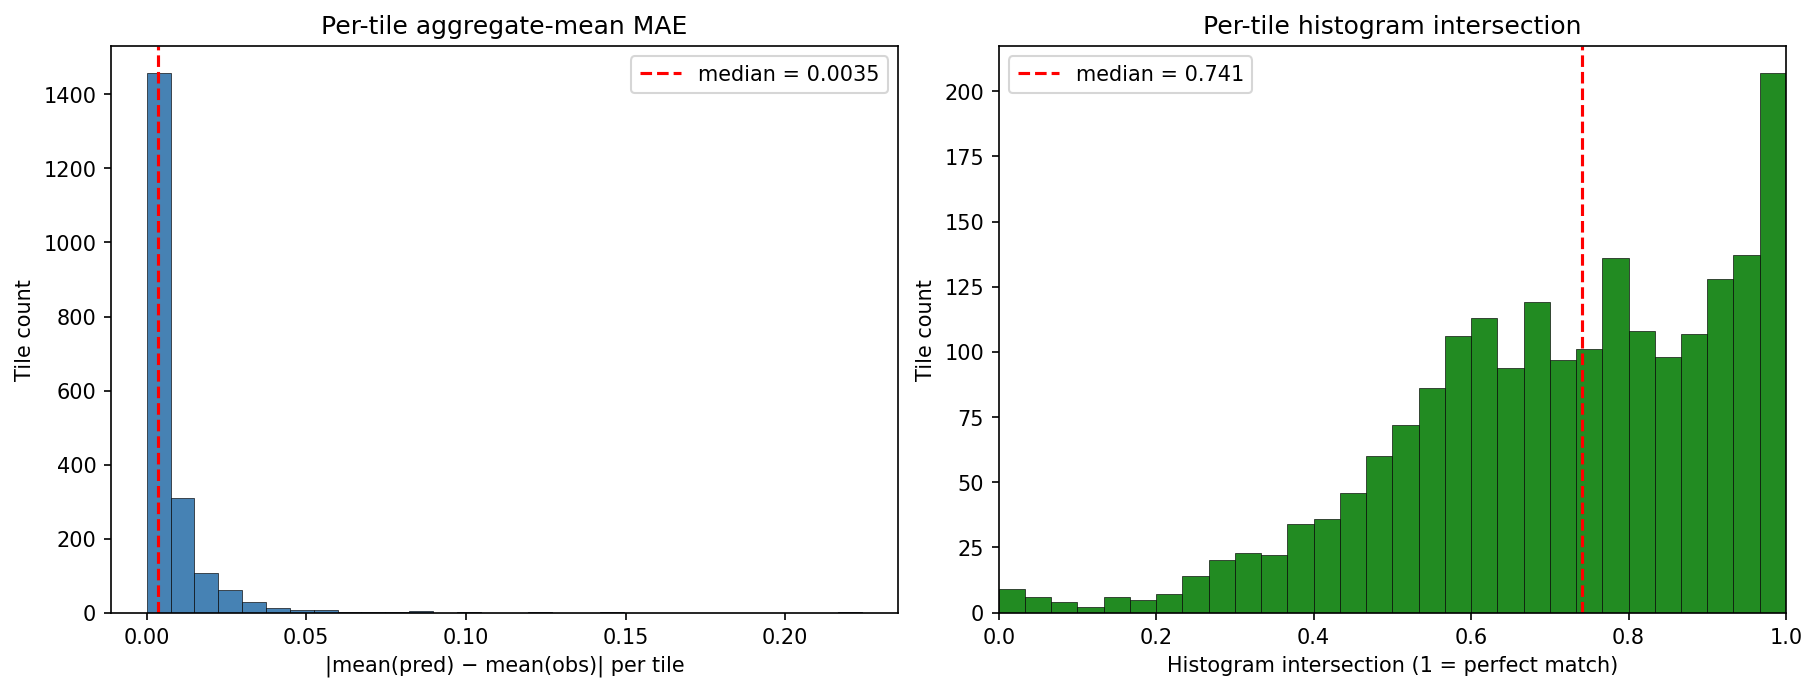
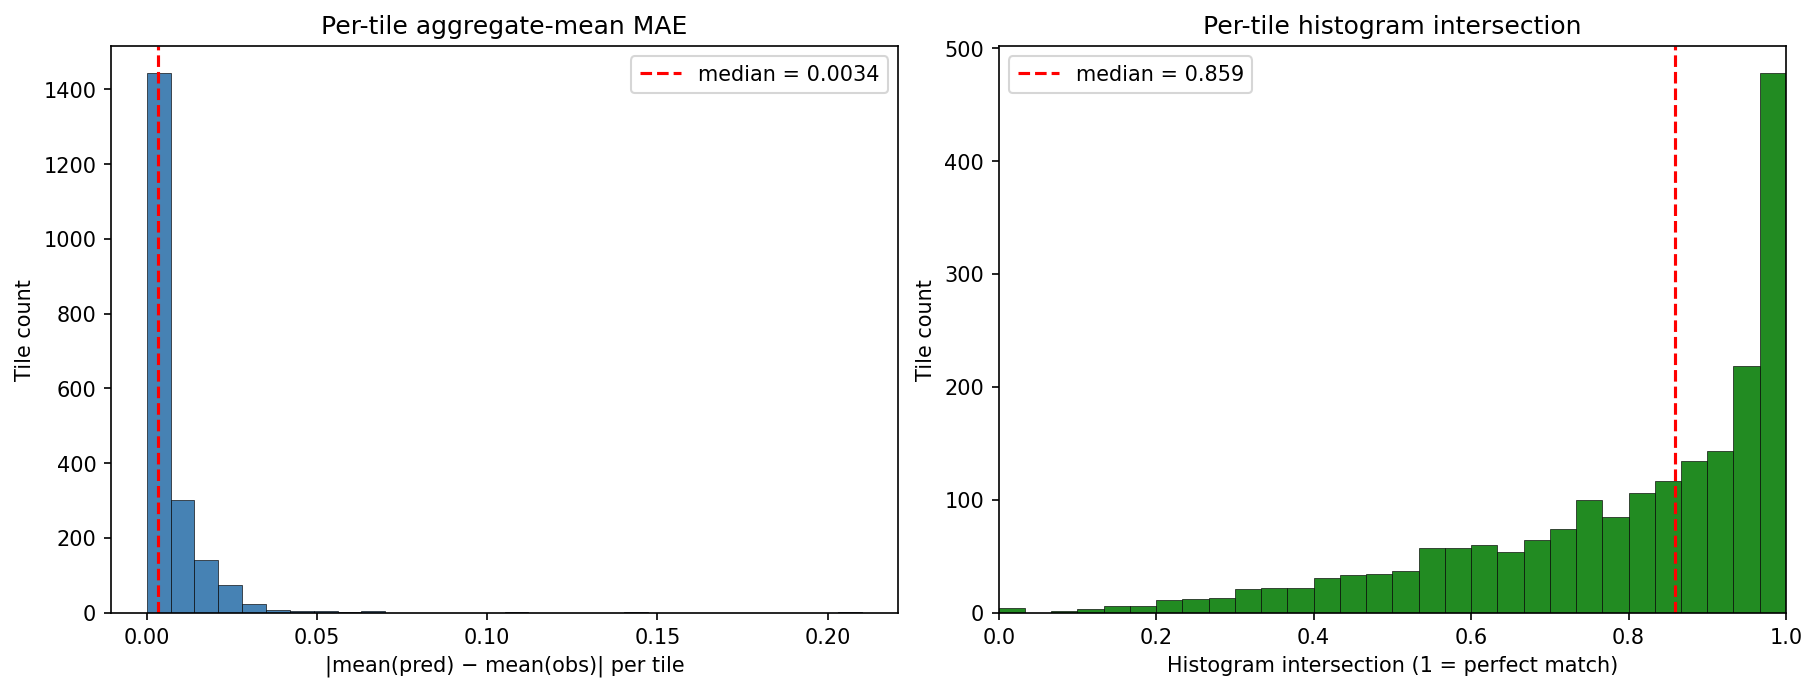
feat: min-SNR-γ weighting on v-loss (v8)
Hang et al. 2023 — for v-prediction, weight per-timestep loss by
min(γ, SNR(t)) / (1 + SNR(t)) (γ ≈ 5). Effectively shifts gradient
budget toward low-noise / high-SNR steps where rare large-magnitude
features actually live, without changing the noise schedule itself.

- DiffusionLightningModule._snr_weights computes per-batch-element
  weights from the train scheduler's alphas_cumprod.
- _v_loss now combines pixel reweighting (|Δhm|^α) with optional
  min-SNR per-timestep weighting.
- Train script exposes --min_snr_gamma (0 = off, 5 standard).

v8 = v6 (EMA + weighted sampling + pixel weight + pattern loss) +
min-SNR-5. Strictly improves on v6:

                       v6           v8
  MAE median        0.0041   →   0.0034
  hist xinter med   0.801    →   0.859
  Pearson r         0.566    →   0.561
  overall coverage  0.937    →   0.942

  per-bin v6 → v8:
    [-1.000, -0.005]   0.708 → 0.706
    [-0.005, +0.005]   0.987 → 0.993
    [+0.005, +0.020]   0.974 → 0.979
    [+0.020, +0.100]   0.720 → 0.726
    [+0.100, +0.200]   0.000 → 0.000

Min-SNR recovered ~17 % of MAE precision and most of the histogram
intersection gap that v6's pattern loss had introduced, while keeping
v6's coverage gains. Upper bins (Δhm > 0.1) still at 0 — confirms the
remaining failure is a training-distribution / capacity problem, not
a loss-shape problem.

W&B run pnbnwhjp.

diff --git a/src/models/diffusion_lightning.py b/src/models/diffusion_lightning.py
@@ -69,6 +69,7 @@ class DiffusionLightningModule(pl.LightningModule):
         dhm_mean: float = 0.0,
         dhm_std: float = 1.0,
         cfg_dropout_prob: float = 0.0,
+        min_snr_gamma: float = 0.0,
     ):
         super().__init__()
         self.save_hyperparameters()
@@ -89,6 +90,7 @@ class DiffusionLightningModule(pl.LightningModule):
         self.dhm_mean = float(dhm_mean)
         self.dhm_std = float(dhm_std)
         self.cfg_dropout_prob = float(cfg_dropout_prob)
+        self.min_snr_gamma = float(min_snr_gamma)
 
         loc = _maybe_build_location_encoder(location_encoder_kwargs)
         if loc is None:
@@ -159,26 +161,46 @@ class DiffusionLightningModule(pl.LightningModule):
             batch["hm_t_normalized"],
         )
 
-    def _v_loss(self, v_pred, v_target, valid, target_dhm):
-        """Per-pixel-reweighted v-prediction MSE.
+    def _snr_weights(self, t):
+        """Min-SNR-γ per-timestep weight for v-prediction.
 
-        With pixel_weight_alpha > 0, each pixel's MSE contribution is scaled
-        by (|target_dhm|^alpha + eps), normalised so the average weight over
-        valid pixels is 1. This concentrates gradient on the rare large-Δhm
-        pixels that the uniform MSE drowns out.
+        Hang et al. 2023 — for v-prediction the loss should be weighted by
+        min(γ, SNR(t)) / (1 + SNR(t)) so high-SNR (low-noise) steps get
+        relatively more gradient. Without this the v-loss is roughly uniform
+        across t, which under-weights the low-noise regime where rare
+        high-magnitude features actually live.
+        """
+        if self.min_snr_gamma <= 0:
+            return None
+        alphas_cumprod = self.train_scheduler.alphas_cumprod.to(t.device)[t]
+        snr = alphas_cumprod / (1.0 - alphas_cumprod).clamp(min=1e-8)
+        w = torch.minimum(snr, torch.full_like(snr, self.min_snr_gamma)) / (1.0 + snr)
+        return w.view(-1, 1, 1, 1)
+
+    def _v_loss(self, v_pred, v_target, valid, target_dhm, t):
+        """Per-pixel + per-timestep weighted v-prediction MSE.
+
+        - pixel_weight_alpha > 0 scales each pixel's MSE by (|target_dhm|^α + ε),
+          normalised so the average pixel weight on valid pixels is 1.
+        - min_snr_gamma > 0 applies Hang-2023 min-SNR-γ per-timestep weighting
+          (γ ≈ 5 is standard for v-prediction).
         """
         valid_f = valid.float()
         sq = (v_pred - v_target).pow(2)
-        if self.pixel_weight_alpha <= 0:
-            denom = valid_f.sum().clamp(min=1.0)
-            return (sq * valid_f).sum() / denom
-        w = target_dhm.abs().pow(self.pixel_weight_alpha) + self.pixel_weight_eps
-        # Normalise per-batch so the *mean* weight on valid pixels is 1.
-        w_sum = (w * valid_f).sum()
-        v_sum = valid_f.sum().clamp(min=1.0)
-        w_norm = w * (v_sum / w_sum.clamp(min=1e-8))
+        # Pixel weight (1 if disabled).
+        if self.pixel_weight_alpha > 0:
+            w_pix = target_dhm.abs().pow(self.pixel_weight_alpha) + self.pixel_weight_eps
+            w_sum = (w_pix * valid_f).sum()
+            v_sum = valid_f.sum().clamp(min=1.0)
+            w_pix = w_pix * (v_sum / w_sum.clamp(min=1e-8))
+        else:
+            w_pix = torch.ones_like(sq)
+        # SNR weight (1 if disabled). Per-batch-element [B, 1, 1, 1].
+        snr_w = self._snr_weights(t)
+        if snr_w is not None:
+            sq = sq * snr_w
         denom = valid_f.sum().clamp(min=1.0)
-        return (sq * w_norm * valid_f).sum() / denom
+        return (sq * w_pix * valid_f).sum() / denom
 
     def _x0_pred_from_v(self, noisy, v_pred, t):
         """Recover predicted clean x_0 from v_pred under v-prediction parametrisation."""
@@ -239,7 +261,7 @@ class DiffusionLightningModule(pl.LightningModule):
         v_target = self.train_scheduler.get_velocity(x_0, noise, t)
         v_pred = self.unet(noisy, cond, t)
 
-        v_loss = self._v_loss(v_pred, v_target, valid, x_0)
+        v_loss = self._v_loss(v_pred, v_target, valid, x_0, t)
 
         if self.pattern_loss_weight > 0:
             x0_pred = self._x0_pred_from_v(noisy, v_pred, t)

diff --git a/scripts/train_diffusion.py b/scripts/train_diffusion.py
@@ -92,6 +92,9 @@ def parse_args():
     p.add_argument("--cfg_dropout_prob", type=float, default=0.0,
                    help="Probability of dropping conditioning during training (CFG). "
                         "0 = off; 0.1 standard. Enables classifier-free guidance at sampling.")
+    p.add_argument("--min_snr_gamma", type=float, default=0.0,
+                   help="Hang-2023 min-SNR-γ weighting on v-loss (0=off, 5 standard "
+                        "for v-prediction). Upweights low-noise / high-SNR steps.")
 
     # Location encoder
     p.add_argument("--use_location_encoder", action="store_true", default=True)
@@ -200,6 +203,7 @@ def main():
         dhm_mean=float(train_ds.dhm_mean),
         dhm_std=float(train_ds.dhm_std),
         cfg_dropout_prob=args.cfg_dropout_prob,
+        min_snr_gamma=args.min_snr_gamma,
     )
     n_params = sum(p.numel() for p in module.parameters())
     print(f"  module param count: {n_params/1e6:.1f}M")

diff --git a/docs/diffusion_v1_results.md b/docs/diffusion_v1_results.md
@@ -7,12 +7,12 @@
 - Aggregate-tile size: **16×16** pixels (10 km blocks).
 - Histogram bins (rarity-weighted, matches baseline `histogram_loss.py`):
   `[-1.0, -0.005, 0.005, 0.02, 0.1, 0.2, 0.4, 0.6, 1.0]`.
-- W&B run: [glennwithtwons/spatio-temporal-diffusion/5p6y9lmg](https://wandb.ai/glennwithtwons/spatio-temporal-diffusion/5p6y9lmg)
+- W&B run: [glennwithtwons/spatio-temporal-diffusion/pnbnwhjp](https://wandb.ai/glennwithtwons/spatio-temporal-diffusion/pnbnwhjp)
 
 ## Model & checkpoint
 
-- Checkpoint: `/Users/glen.moncrieff/python/spatio_temporal/spatio-temporal-diffusion/5p6y9lmg/checkpoints/dhm-diffusion-epoch33-valloss0.4807.ckpt`
-- Stopping epoch: 33 (global step 2176)
+- Checkpoint: `/Users/glen.moncrieff/python/spatio_temporal/spatio-temporal-diffusion/pnbnwhjp/checkpoints/dhm-diffusion-epoch29-valloss0.0931.ckpt`
+- Stopping epoch: 29 (global step 1920)
 - Architecture: `ConditionalDiffusionUNet` (`diffusers.UNet2DModel`)
   - sample_size = 64
   - base_channels = 128
@@ -32,13 +32,13 @@
 | Metric | Value |
 |---|---|
 | Tiles with valid coverage | 2,003 of 7,150 |
-| Tile-mean MAE (median) | **0.0035** |
-| Tile-mean MAE (mean) | 0.0070 |
-| Tile-mean MAE (95th %ile) | 0.0250 |
-| Histogram intersection (median) | **0.741** |
-| Histogram intersection (mean) | 0.715 |
-| Pearson r (predicted vs. observed tile-mean Δhm) | 0.310 |
-| Coverage rate (q025 ≤ obs ≤ q975), all bins | 0.915 (target ≈ 0.95) |
+| Tile-mean MAE (median) | **0.0034** |
+| Tile-mean MAE (mean) | 0.0066 |
+| Tile-mean MAE (95th %ile) | 0.0220 |
+| Histogram intersection (median) | **0.859** |
+| Histogram intersection (mean) | 0.793 |
+| Pearson r (predicted vs. observed tile-mean Δhm) | 0.561 |
+| Coverage rate (q025 ≤ obs ≤ q975), all bins | 0.942 (target ≈ 0.95) |
 
 ### Coverage stratified by Δhm change bin
 
@@ -49,10 +49,10 @@ ones where the model has to express genuine uncertainty.
 
 | Δhm bin | n pixels | Coverage |
 |---|---:|---:|
-| `[ -1.000, -0.005]` | 26,031 | 0.689 |
-| `[ -0.005, +0.005]` | 345,050 | 0.973 |
-| `[ +0.005, +0.020]` | 51,561 | 0.954 |
-| `[ +0.020, +0.100]` | 40,825 | 0.627 |
+| `[ -1.000, -0.005]` | 26,031 | 0.706 |
+| `[ -0.005, +0.005]` | 345,050 | 0.993 |
+| `[ +0.005, +0.020]` | 51,561 | 0.979 |
+| `[ +0.020, +0.100]` | 40,825 | 0.726 |
 | `[ +0.100, +0.200]` | 4,020 | 0.000 |
 | `[ +0.200, +0.400]` | 525 | 0.000 |
 | `[ +0.400, +0.600]` | 19 | 0.000 |
